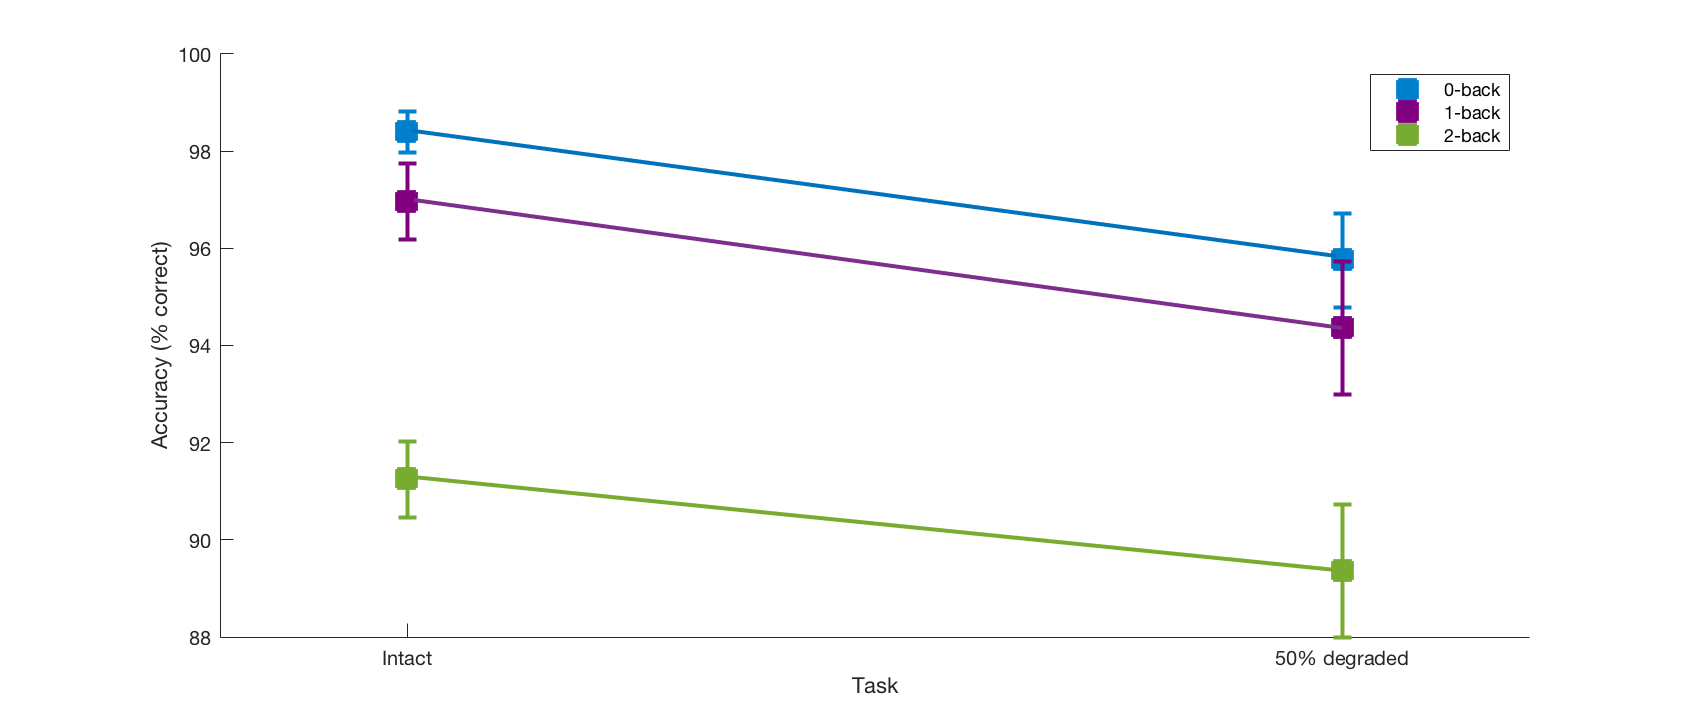
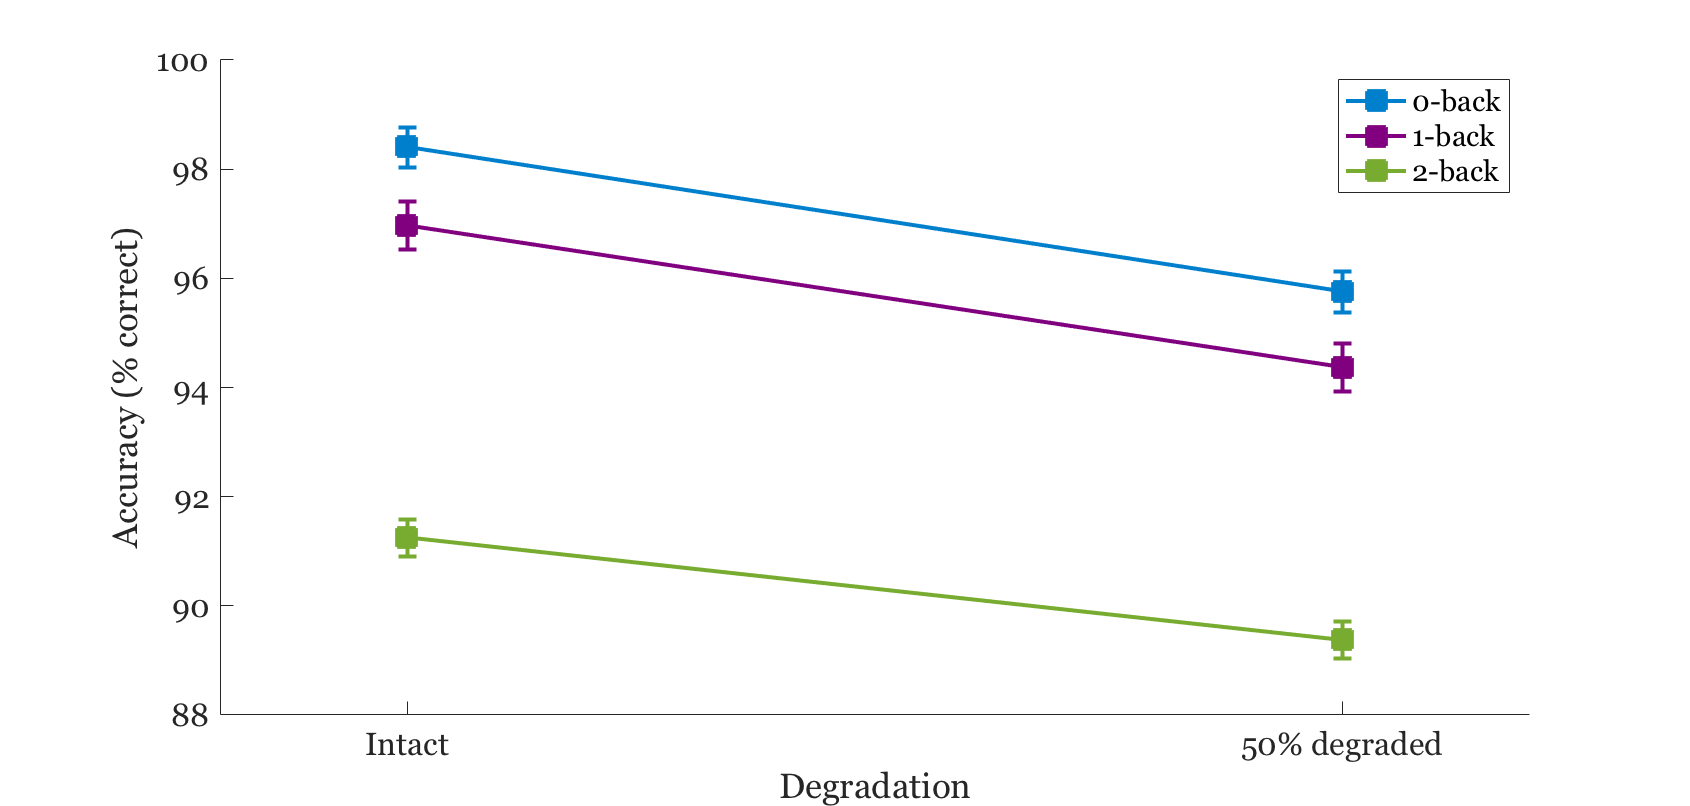
new figures

diff --git a/analysis/plot_Acc.m b/analysis/plot_Acc.m
@@ -6,19 +6,22 @@ figure; hold('on')
 x = 1:1:2;
 
 % Get the mean RTs and round, and multiply by 100 to turn into percentage.
-y0 = [round(mean(T.Acc00*100),3) round(mean(T.Acc01*100),3)]; 
-err = [(std(T.Acc00*100)/sqrt(24)) (std(T.Acc01*100)/sqrt(24))];
-p1 = errorbar(x, y0, err, 's', 'MarkerSize',12, 'MarkerEdgeColor',[0,.5,.8], 'MarkerFaceColor',[0,.5,.8]);
+Acc_0back = [T.Acc00 T.Acc01];
+y0 = mean(Acc_0back)*100; 
+err = RepMeasErr(Acc_0back)*100;
+p1 = errorbar(x, y0, err, '-s', 'MarkerSize',12, 'MarkerEdgeColor',[0,.5,.8], 'MarkerFaceColor',[0,.5,.8]);
 set(p1,'Color',[0,.5,.8],'LineWidth', 2);
 
-y1 = [round(mean(T.Acc10*100),3) round(mean(T.Acc11*100),3)]; 
-err = [(std(T.Acc10*100)/sqrt(24)) (std(T.Acc11*100)/sqrt(24))];
-p2 = errorbar(x, y1, err, 's', 'MarkerSize',12, 'MarkerEdgeColor',[.5,0,.5], 'MarkerFaceColor',[.5,0,.5]);
+Acc_1back = [T.Acc10 T.Acc11];
+y1 = mean(Acc_1back)*100; 
+err = RepMeasErr(Acc_1back)*100;
+p2 = errorbar(x, y1, err, '-s', 'MarkerSize',12, 'MarkerEdgeColor',[.5,0,.5], 'MarkerFaceColor',[.5,0,.5]);
 set(p2,'Color',[.5,0,.5],'LineWidth', 2);
 
-y2 = [round(mean(T.Acc20*100),3) round(mean(T.Acc21*100),3)]; 
-err = [(std(T.Acc10*100)/sqrt(24)) (std(T.Acc11*100)/sqrt(24))];
-p3 = errorbar(x, y2, err, 's', 'MarkerSize',12, 'MarkerEdgeColor',[.5,0,.5], 'MarkerFaceColor',[.5,0,.5]);
+Acc_2back = [T.Acc20 T.Acc21];
+y2 = mean(Acc_2back)*100; 
+err = RepMeasErr(Acc_2back)*100;
+p3 = errorbar(x, y2, err, '-s', 'MarkerSize',12, 'MarkerEdgeColor',[.5,0,.5], 'MarkerFaceColor',[.5,0,.5]);
 set(p3,'Color',[.5,0,.5],'LineWidth', 2);
 
 
@@ -26,7 +29,7 @@ set(p3,'Color',[.5,0,.5],'LineWidth', 2);
 legend('0-back','1-back','2-back')
 set(gca, 'xtick', 1:2,...
     'xticklabels',{'Intact','50% degraded'})
-xlabel('Task')
+xlabel('Degradation')
 ylabel('Accuracy (% correct)')
 
 return
